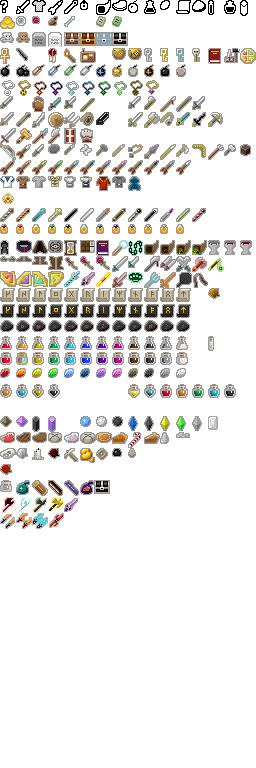
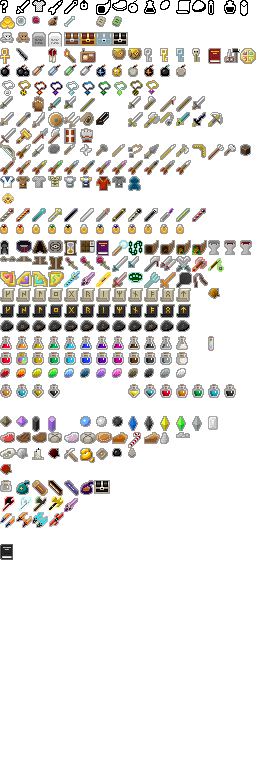
Added a new crash report system, added Mana

Changed region(s): [[0.0, 0.625, 0.25, 0.75]]

diff --git a/core/src/main/java/com/shatteredpixel/cursedpixeldungeon/items/powers/ActivatedPower.java b/core/src/main/java/com/shatteredpixel/cursedpixeldungeon/items/powers/ActivatedPower.java
@@ -2,6 +2,7 @@ package com.shatteredpixel.cursedpixeldungeon.items.powers;
 
 import com.shatteredpixel.cursedpixeldungeon.Assets;
 import com.shatteredpixel.cursedpixeldungeon.actors.Actor;
+import com.shatteredpixel.cursedpixeldungeon.actors.Char;
 import com.shatteredpixel.cursedpixeldungeon.actors.buffs.MagicImmune;
 import com.shatteredpixel.cursedpixeldungeon.actors.hero.Hero;
 import com.shatteredpixel.cursedpixeldungeon.effects.MagicMissile;
@@ -17,34 +18,44 @@ import com.watabou.utils.Callback;
 
 import java.util.ArrayList;
 
-public abstract class TargetedPower extends Power {
+public abstract class ActivatedPower extends Power {
 
     {
-        usesTargeting = true;
-        defaultAction = AC_ZAP;
+        defaultAction = AC_CAST;
     }
 
-    public static final String AC_ZAP = "CAST";
+    public static final String AC_CAST = "CAST";
     private static final float TIME_TO_ZAP = 1.0f;
 
     public int mp_cost = -1;
 
-    protected int collisionProperties = Ballistica.MAGIC_BOLT;
+    protected int collisionProperties = Ballistica.STOP_TARGET | Ballistica.STOP_TERRAIN;
+
+    ActivatedPower() {
+        usesTargeting = usesTargeting();
+    }
 
     @Override
     public ArrayList<String> actions(Hero hero) {
         ArrayList<String> actions = super.actions(hero);
-        actions.add(AC_ZAP);
+        actions.add(AC_CAST);
         return actions;
     }
 
     @Override
     public void execute(Hero hero, String action) {
         super.execute(hero, action);
-        if (action.equals(AC_ZAP)) {
-            GameScene.selectCell(zapper);
+        if (action.equals(AC_CAST)) {
+            if (usesTargeting()) {
+                GameScene.selectCell(zapper);
+            } else {
+                onUse();
+                affectCell(hero.pos);
+            }
         }
     }
+
+    public abstract boolean usesTargeting();
 
     protected static CellSelector.Listener zapper = new  CellSelector.Listener() {
 
@@ -55,9 +66,9 @@ public abstract class TargetedPower extends Power {
 
                 //FIXME this safety check shouldn't be necessary
                 //it would be better to eliminate the curItem static variable.
-                final TargetedPower curPower;
-                if (curItem instanceof TargetedPower) {
-                    curPower = (TargetedPower) TargetedPower.curItem;
+                final ActivatedPower curPower;
+                if (curItem instanceof ActivatedPower) {
+                    curPower = (ActivatedPower) ActivatedPower.curItem;
                 } else {
                     return;
                 }
@@ -85,10 +96,7 @@ public abstract class TargetedPower extends Power {
                 curPower.fx(shot, new Callback() {
                     public void call() {
                         curPower.onZap(shot);
-                        if (curPower.mp_cost > 0) {
-                            curUser.loseMP(curPower.mp_cost, curPower);
-                        }
-                        curUser.spendAndNext( TIME_TO_ZAP );
+                        curPower.onUse();
                     }
                 });
 
@@ -101,7 +109,18 @@ public abstract class TargetedPower extends Power {
         }
     };
 
-    public abstract void onZap(Ballistica shot);
+    public void onUse() {
+        if (mp_cost > 0) {
+            curUser.loseMP(mp_cost, this);
+        }
+        curUser.spendAndNext( TIME_TO_ZAP );
+    }
+
+    public abstract void affectCell(int pos);
+
+    public void onZap(Ballistica shot) {
+        affectCell(shot.collisionPos);
+    }
 
     public void fx(Ballistica shot, Callback callback) {
         MagicMissile.boltFromChar( curUser.sprite.parent,

diff --git a/core/src/main/java/com/shatteredpixel/cursedpixeldungeon/items/powers/Greed.java b/core/src/main/java/com/shatteredpixel/cursedpixeldungeon/items/powers/Greed.java
@@ -1,0 +1,65 @@
+package com.shatteredpixel.cursedpixeldungeon.items.powers;
+
+import com.shatteredpixel.cursedpixeldungeon.Dungeon;
+import com.shatteredpixel.cursedpixeldungeon.actors.Actor;
+import com.shatteredpixel.cursedpixeldungeon.actors.Char;
+import com.shatteredpixel.cursedpixeldungeon.actors.buffs.Buff;
+import com.shatteredpixel.cursedpixeldungeon.items.Gold;
+import com.watabou.utils.Bundle;
+
+public class Greed extends ActivatedPower {
+    {
+        mp_cost = 10;
+    }
+    @Override
+    public boolean usesTargeting() {
+        return true;
+    }
+
+    @Override
+    public void affectCell(int pos) {
+        Char ch = Actor.findChar(pos);
+        if (ch == null) {
+            return;
+        }
+        Buff.affect(ch, GreedBuff.class).set(10);
+    }
+
+    public static class GreedBuff extends Buff {
+        protected float left;
+
+        private static final String LEFT	= "left";
+
+        {
+            type = buffType.NEGATIVE;
+        }
+
+        @Override
+        public void storeInBundle( Bundle bundle ) {
+            super.storeInBundle( bundle );
+            bundle.put( LEFT, left );
+
+        }
+
+        @Override
+        public void restoreFromBundle( Bundle bundle ) {
+            super.restoreFromBundle( bundle );
+            left = bundle.getFloat( LEFT );
+        }
+
+        public void set( float duration ) {
+            this.left = Math.max(duration, left);
+        }
+
+        public void extend( float duration ) {
+            this.left += duration;
+        }
+
+        @Override
+        public boolean act() {
+            Dungeon.level.drop( new Gold().random(), target.pos ).sprite.drop( target.pos );
+            spend( TICK );
+            return true;
+        }
+    }
+}

diff --git a/core/src/main/java/com/shatteredpixel/cursedpixeldungeon/actors/hero/HeroClass.java b/core/src/main/java/com/shatteredpixel/cursedpixeldungeon/actors/hero/HeroClass.java
@@ -43,6 +43,7 @@ import com.shatteredpixel.cursedpixeldungeon.items.artifacts.CloakOfShadows;
 import com.shatteredpixel.cursedpixeldungeon.items.bags.FoodHolder;
 import com.shatteredpixel.cursedpixeldungeon.items.bags.MagicalHolster;
 import com.shatteredpixel.cursedpixeldungeon.items.bags.PotionBandolier;
+import com.shatteredpixel.cursedpixeldungeon.items.bags.PowerHolder;
 import com.shatteredpixel.cursedpixeldungeon.items.bags.ScrollHolder;
 import com.shatteredpixel.cursedpixeldungeon.items.bags.VelvetPouch;
 import com.shatteredpixel.cursedpixeldungeon.items.food.Food;
@@ -56,6 +57,7 @@ import com.shatteredpixel.cursedpixeldungeon.items.potions.PotionOfLiquidFlame;
 import com.shatteredpixel.cursedpixeldungeon.items.potions.PotionOfMindVision;
 import com.shatteredpixel.cursedpixeldungeon.items.potions.PotionOfStrength;
 import com.shatteredpixel.cursedpixeldungeon.items.powers.Blocker;
+import com.shatteredpixel.cursedpixeldungeon.items.powers.Greed;
 import com.shatteredpixel.cursedpixeldungeon.items.powers.LuckyBadge;
 import com.shatteredpixel.cursedpixeldungeon.items.rings.RingOfLuck;
 import com.shatteredpixel.cursedpixeldungeon.items.scrolls.ScrollOfIdentify;
@@ -210,15 +212,15 @@ public enum HeroClass {
 		new MagicalHolster().collect();
 		Dungeon.LimitedDrops.MAGICAL_HOLSTER.drop();
 
+		new PowerHolder().collect();
+
 		new LuckyBadge().collect();
-		//Extra stuff
 
 	}
 
 	public static void initTest(Hero hero) {
-		new Soul().collect();
 		new MegaStrengthPotion().identify().collect();
-		new Blocker().collect();
+		new Greed().collect();
 		new MaracarsBlades().identify().level(15).collect();
 		new ThonothsAxe().identify().level(15).collect();
 		new LorsionsGreataxe().identify().level(15).collect();

diff --git a/core/src/main/java/com/shatteredpixel/cursedpixeldungeon/levels/AirChallengeBossLevel.java b/core/src/main/java/com/shatteredpixel/cursedpixeldungeon/levels/AirChallengeBossLevel.java
@@ -5,6 +5,7 @@ import com.shatteredpixel.cursedpixeldungeon.Dungeon;
 import com.shatteredpixel.cursedpixeldungeon.actors.Char;
 import com.shatteredpixel.cursedpixeldungeon.actors.mobs.Mob;
 import com.shatteredpixel.cursedpixeldungeon.actors.mobs.Shinobi;
+import com.shatteredpixel.cursedpixeldungeon.actors.mobs.Tengu;
 import com.shatteredpixel.cursedpixeldungeon.actors.mobs.Tengu2;
 import com.shatteredpixel.cursedpixeldungeon.items.keys.IronKey;
 import com.shatteredpixel.cursedpixeldungeon.levels.rooms.standard.EmptyRoom;
@@ -59,7 +60,7 @@ public class AirChallengeBossLevel extends Level {
     }
 
     private boolean insideRoomLeft(int cell) {
-        return (new EmptyRoom().set(5, 14, 12, 22)).inside(cellToPoint(cell));
+        return (new EmptyRoom().set(4, 14, 12, 22)).inside(cellToPoint(cell));
     }
 
     private boolean insideRoomRight(int cell) {
@@ -70,6 +71,7 @@ public class AirChallengeBossLevel extends Level {
     public void press(int cell, Char ch) {
         super.press(cell, ch);
         if (ch == Dungeon.hero) {
+            tengu = new Tengu2();
             //hero enters tengu's chamber
             if (insideRoomLeft(cell)) {
                 tengu.pos = ROOM_LEFT_POS;

diff --git a/core/src/main/java/com/shatteredpixel/cursedpixeldungeon/items/bags/PowerHolder.java b/core/src/main/java/com/shatteredpixel/cursedpixeldungeon/items/bags/PowerHolder.java
@@ -3,12 +3,31 @@ package com.shatteredpixel.cursedpixeldungeon.items.bags;
 import com.shatteredpixel.cursedpixeldungeon.items.Item;
 import com.shatteredpixel.cursedpixeldungeon.items.powers.Power;
 import com.shatteredpixel.cursedpixeldungeon.sprites.ItemSpriteSheet;
+import com.watabou.utils.Bundle;
 
 public class PowerHolder extends Bag {
     {
-        image = ItemSpriteSheet.POWERHOLDER;
+        image = ItemSpriteSheet.SPELLBOOK;
 
-        size = 35;
+        size = 5;
+
+        unique = true;
+
+        bones = false;
+    }
+
+    private static final String SIZE = "size";
+
+    @Override
+    public void storeInBundle(Bundle bundle) {
+        super.storeInBundle(bundle);
+        bundle.put( SIZE, size );
+    }
+
+    @Override
+    public void restoreFromBundle(Bundle bundle) {
+        super.restoreFromBundle(bundle);
+        size = bundle.getInt( SIZE );
     }
 
     @Override

diff --git a/core/src/main/java/com/shatteredpixel/cursedpixeldungeon/items/powers/Blocker.java b/core/src/main/java/com/shatteredpixel/cursedpixeldungeon/items/powers/Blocker.java
@@ -1,12 +1,21 @@
 package com.shatteredpixel.cursedpixeldungeon.items.powers;
 
+import com.shatteredpixel.cursedpixeldungeon.actors.Char;
 import com.shatteredpixel.cursedpixeldungeon.items.stones.StoneOfFlock;
 import com.shatteredpixel.cursedpixeldungeon.mechanics.Ballistica;
 
-public class Blocker extends TargetedPower {
+public class Blocker extends ActivatedPower {
+    {
+        mp_cost = 4;
+    }
+
     @Override
-    public void onZap(Ballistica shot) {
-        int cell = shot.collisionPos;
-        new StoneOfFlock().activate(cell);
+    public boolean usesTargeting() {
+        return true;
+    }
+
+    @Override
+    public void affectCell(int pos) {
+        new StoneOfFlock().activate(pos);
     }
 }

diff --git a/core/src/main/java/com/shatteredpixel/cursedpixeldungeon/sprites/ItemSpriteSheet.java b/core/src/main/java/com/shatteredpixel/cursedpixeldungeon/sprites/ItemSpriteSheet.java
@@ -706,10 +706,14 @@ public class ItemSpriteSheet {
 
 	}
 
-	                                                                                    //16 free slots
-	private static final int RELICWEPS       =                                   xy(1, 32);  //16 slots
+	private static final int RELICWEPS       =                             xy(1, 32);  //16 slots
 	public static final int LORSIONSGREATAXE = RELICWEPS+0;
 	public static final int NAHUSSWORD       = RELICWEPS+4;
+
+
+
+	private static final int POWERS          =                             xy(1, 34);
+	public static int SPELLBOOK    = POWERS+0;
 
 
 	private static void assignItemRect( int item, int width, int height){

diff --git a/core/src/main/java/com/shatteredpixel/cursedpixeldungeon/items/weapon/melee/RelicMeleeWeapons/RelicEnchantments/Vicious.java b/core/src/main/java/com/shatteredpixel/cursedpixeldungeon/items/weapon/melee/RelicMeleeWeapons/RelicEnchantments/Vicious.java
@@ -18,9 +18,9 @@ public class Vicious extends RelicEnchantment {
 
     @Override
     public int relicProc(RelicMeleeWeapon weapon, Char attacker, Char defender, int damage) {
-        Buff.affect(defender, Poison.class).set( 3 + Dungeon.depth / 2 );
+        Buff.affect( defender, Poison.class ).set( 3 + Dungeon.depth / 2 );
         Buff.affect( defender, Bleeding.class ).set( damage );
-        Buff.affect( defender, Cripple.class, Cripple.DURATION);
+        Buff.affect( defender, Cripple.class, Cripple.DURATION );
         return damage;
     }
 

diff --git a/core/src/main/java/com/shatteredpixel/cursedpixeldungeon/items/Item.java b/core/src/main/java/com/shatteredpixel/cursedpixeldungeon/items/Item.java
@@ -221,8 +221,7 @@ public class Item implements Bundlable {
 			return true;
 			
 		} else {
-			
-			GLog.n( Messages.get(Item.class, "pack_full", name()) );
+			GLog.n( Messages.get(this, "pack_full", name()) );
 			return false;
 			
 		}
